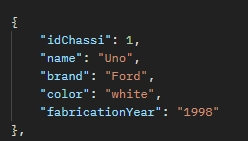
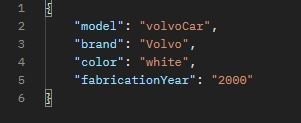
ReadMe edited, additional information added about the endpoint responses, replacement of the response preview image. name changed to model in the Car class and carDTO, idChassi changed to chassiId, and it is now generated automatically.

diff --git a/src/main/java/com/carstore/carstore/Controllers/CarController.java b/src/main/java/com/carstore/carstore/Controllers/CarController.java
@@ -25,35 +25,33 @@ public class CarController {
         return ResponseEntity.status(HttpStatus.NOT_FOUND).body("List is empty or null");
     }
     @GetMapping("{id}")
-    public ResponseEntity<Object> getCarByChassiId(@PathVariable (value = "id") Long idChassi){
-        var car = carService.getCarById(idChassi);
+    public ResponseEntity<Object> getCarByChassiId(@PathVariable (value = "id") Long chassiId){
+        var car = carService.getCarById(chassiId);
         if(car.isPresent()){
                 return ResponseEntity.status(HttpStatus.OK).body(car.get());
         }
         return ResponseEntity.status(HttpStatus.NOT_FOUND).body("Car not found");
     }
+
     @PostMapping("/cars")
     public ResponseEntity<?> addCar(@RequestBody @Valid CarDTO carDTO) {
-        var existingCar = carService.getCarById(carDTO.getIdChassi());
-        if(!existingCar.isPresent()){
-            boolean validBrand = carService.validBrand(carDTO.getBrand());
-            if(!validBrand){
-                return ResponseEntity.status(HttpStatus.NOT_ACCEPTABLE).body("Invalid brand value. Only Chevrolet, Volvo, BMW, and Ford are accepted");
-            }
-            carService.saveCar(carDTO);
-            return ResponseEntity.status(HttpStatus.CREATED).body(carDTO);
+        if(!carService.validBrand(carDTO.getBrand())){
+            return ResponseEntity.status(HttpStatus.NOT_FOUND).body("Invalid brand value. Only Chevrolet, Volvo, BMW, and Ford are accepted");
         }
-        return ResponseEntity.status(HttpStatus.BAD_REQUEST).body("ChassiId is already registered. Enter a valid chassiId");
+        carService.saveCar(carDTO);
+        return ResponseEntity.status(HttpStatus.CREATED).body(carDTO);
     }
 
-
-    @PutMapping("/cars")
-    public ResponseEntity<?> updateCar(@RequestBody @Valid CarDTO carDTO){
-        var existingCarId = carService.updateCar(carDTO);
-        if(!existingCarId.isEmpty()){
-            return ResponseEntity.status(HttpStatus.OK).body(carDTO);
+    @PutMapping("/cars/{id}")
+    public ResponseEntity<?> updateCar(@PathVariable (value = "id") Long id, @RequestBody @Valid CarDTO carDTO){
+        if(!carService.validBrand(carDTO.getBrand())){
+            return ResponseEntity.status(HttpStatus.NOT_FOUND).body("Invalid brand value. Only Chevrolet, Volvo, BMW, and Ford are accepted");
         }
-        return ResponseEntity.status(HttpStatus.NOT_FOUND).body("Car not found. Send a valid chassiId");
+        var existingCarId = carService.updateCar(id, carDTO);
+        if(existingCarId.isEmpty()) {
+            return ResponseEntity.status(HttpStatus.NOT_FOUND).body("Car not found. Send a valid chassiId");
+        }
+        return ResponseEntity.status(HttpStatus.OK).body(carDTO);
     }
 
     @DeleteMapping("{id}")

diff --git a/src/main/java/com/carstore/carstore/models/DTOs/CarDTO.java b/src/main/java/com/carstore/carstore/models/DTOs/CarDTO.java
@@ -6,12 +6,10 @@ import jakarta.validation.constraints.NotNull;
 import jakarta.validation.constraints.Pattern;
 
 public class CarDTO{
-        @NotNull(message = "idChassi must not be null.")
-        Long idChassi;
         @Pattern(regexp = "^[A-Za-z ]+$", message = "Name must contain only letters and spaces.")
-        @NotEmpty(message = "Name must not be null.")
-        String name;
-        @NotNull
+        @NotEmpty(message = "Model must not be null.")
+        String model;
+        @NotNull(message = "brand must not be null.")
         String brand;
         @NotNull(message = "Color must not be null.")
         String color;
@@ -21,26 +19,25 @@ public class CarDTO{
         public CarDTO() {
         }
 
-        public CarDTO(long idChassi, String name, String brand, String color, String fabricationYear) {
-                this.idChassi = idChassi;
-                this.name = name;
+        public CarDTO(String model, String brand, String color, String fabricationYear) {
+                this.model = model;
                 this.brand = brand;
                 this.color = color;
                 this.fabricationYear = fabricationYear;
         }
         public CarDTO(Car car){
-                this.idChassi = car.getIdChassi();
-                this.name = car.getName();
+                this.model = car.getModel();
                 this.brand = car.getBrand();
                 this.color = car.getColor();
                 this.fabricationYear = car.getFabricationYear();
         }
-        public String getName() {
-                return name;
+
+        public String getModel() {
+                return model;
         }
 
-        public void setName(String name) {
-                this.name = name;
+        public void setModel(String model) {
+                this.model = model;
         }
 
         public String getBrand() {
@@ -65,14 +62,6 @@ public class CarDTO{
 
         public void setFabricationYear(String fabricationYear) {
                 this.fabricationYear = fabricationYear;
-        }
-
-        public Long getIdChassi() {
-                return idChassi;
-        }
-
-        public void setIdChassi(Long idChassi) {
-                this.idChassi = idChassi;
         }
 }
 

diff --git a/src/main/java/com/carstore/carstore/services/CarService.java b/src/main/java/com/carstore/carstore/services/CarService.java
@@ -26,8 +26,8 @@ public class CarService {
     }
 
     @Transactional(readOnly = true)
-    public Optional<CarDTO> getCarById(Long chassi){
-        Optional<Car> carOp = carRepository.findById(chassi);
+    public Optional<CarDTO> getCarById(Long chassiId){
+        Optional<Car> carOp = carRepository.findById(chassiId);
         if(carOp.isPresent()){
             Car car = carOp.get();
             CarDTO carDTO = new CarDTO();
@@ -54,15 +54,13 @@ public class CarService {
     }
 
     @Transactional
-    public Optional<CarDTO> updateCar(CarDTO carDTO){
-        Optional<Car> carOp = carRepository.findById(carDTO.getIdChassi());
+    public Optional<CarDTO> updateCar(Long id, CarDTO carDTO){
+        Optional<Car> carOp = carRepository.findById(id);
         if(carOp.isPresent()){
             Car car = carOp.get();
             BeanUtils.copyProperties(carDTO, car);
             carRepository.save(car);
-            CarDTO carToDTO = new CarDTO();
-            BeanUtils.copyProperties(car, carToDTO);
-            return Optional.of(carToDTO);
+            return Optional.of(carDTO);
         }else{
             return Optional.empty();
         }

diff --git a/src/main/java/com/carstore/carstore/models/Car.java b/src/main/java/com/carstore/carstore/models/Car.java
@@ -7,30 +7,30 @@ import jakarta.validation.constraints.Pattern;
 @Table(name = "TB_CARS")
 public class Car {
     @Id
-    //@GeneratedValue(strategy= GenerationType.AUTO)
-    private Long idChassi;
+    @GeneratedValue(strategy= GenerationType.AUTO)
+    private Long chassiId;
 
-    private String name;
+    private String model;
 
     private String brand;
 
     private  String color;
     private String fabricationYear;
 
-    public Long getIdChassi() {
-        return idChassi;
+    public Long getChassiId() {
+        return chassiId;
     }
 
-    public void setIdChassi(Long idChassi) {
-        this.idChassi = idChassi;
+    public void setChassiId(Long chassiId) {
+        this.chassiId = chassiId;
     }
 
-    public String getName() {
-        return name;
+    public String getModel() {
+        return model;
     }
 
-    public void setName(String name) {
-        this.name = name;
+    public void setModel(String model) {
+        this.model = model;
     }
 
     public String getBrand() {

diff --git a/readme.md b/readme.md
@@ -12,32 +12,36 @@ The CarStore API is a CRUD (Create, Read, Update, Delete) API designed to manage
 
 
 ## Endpoints
-**GET** `api/car`: Get a list of all cars. 
+### **GET** `api/car`: Get a list of all registered cars.
 
-**GET** `api/car/{id}`: Get a specific car by its ID.
+### **GET** `api/car/{id}`: Get a specific car by its ID.
 
-**PUT** `api/car/cars`: Update a registered car.
+### **PUT** `api/car/cars/{id}`: Update a registered car.
 
-**POST** `api/car/cars`: Register a new car.
+### **POST** `api/car/cars`: Register a new car.
 
-**DELETE** `api/car/{id}`: Delete a registered car by its ID.
+### **DELETE** `api/car/{id}`: Delete a registered car by its ID.
+
 
 ## Error Handling
 The API uses HTTP status codes to indicate the success or failure of a request. If an error occurs, the response will contain a JSON object with an error field providing additional details.
 
+In all EndPoints, an error message will be sent if any of the values sent are null or empty. The error will consist of, for example: 400 BAD REQUEST "The 'model' field cannot be null."
+
+In the PUT, DELETE, and GET (by ID) methods, the IDs sent must be valid chassis IDs that are already registered in the database. Otherwise, an error message will be sent. In this case, the message will consist of: 404 NOT FOUND "Car not found. Enter a valid chassis ID."
+
+In the POST method, only the values "Chevrolet, Volvo, BMW, and Ford" in the 'brand' field are accepted, with the first letter capitalized and the others in lowercase. If a different value is passed, an 404 error message indicating that the sent value is not valid will appear.
+
+The 200 OK response will indicate that the operations were successful.
 ## Car Object
 A car object in the API has the following attributes:
 
 chassiId (Long): A unique identifier for the car.
 
-name (String): The name of the car.
+model (String): The name of the car.
 
 brand (String): The brand of the car.
 
 color (String): The color of the car.
 
 fabricationYear (String): The year of fabrication of the car.
-
-#### Example Response:
-
-![Screenshot](images/ex.jpg)
